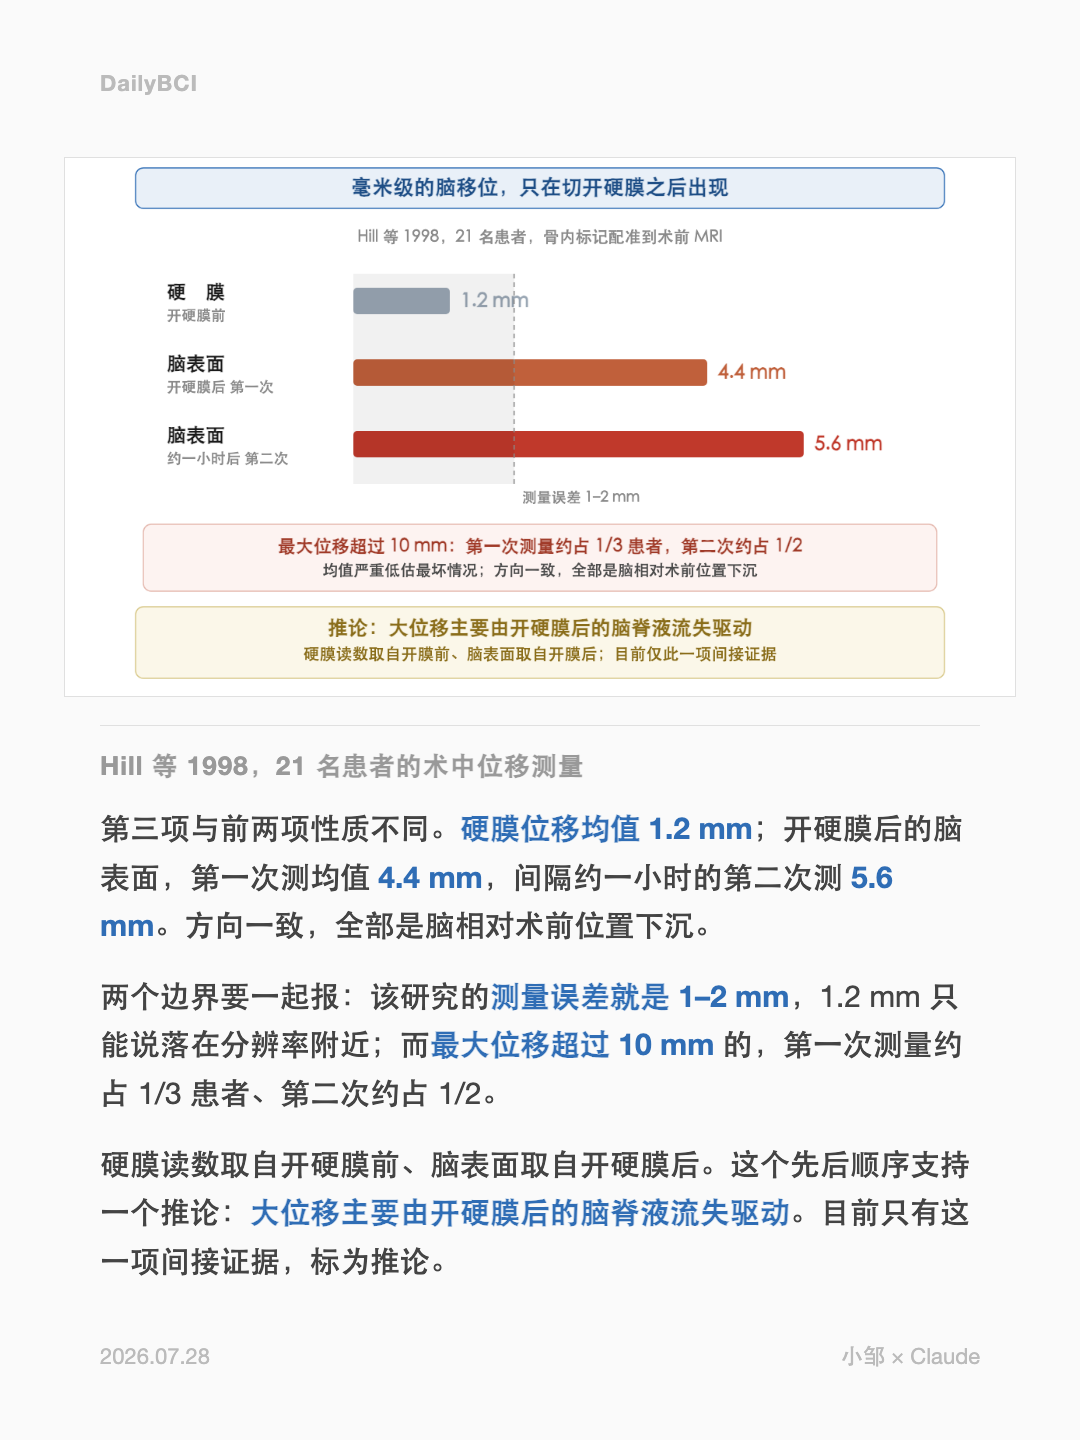
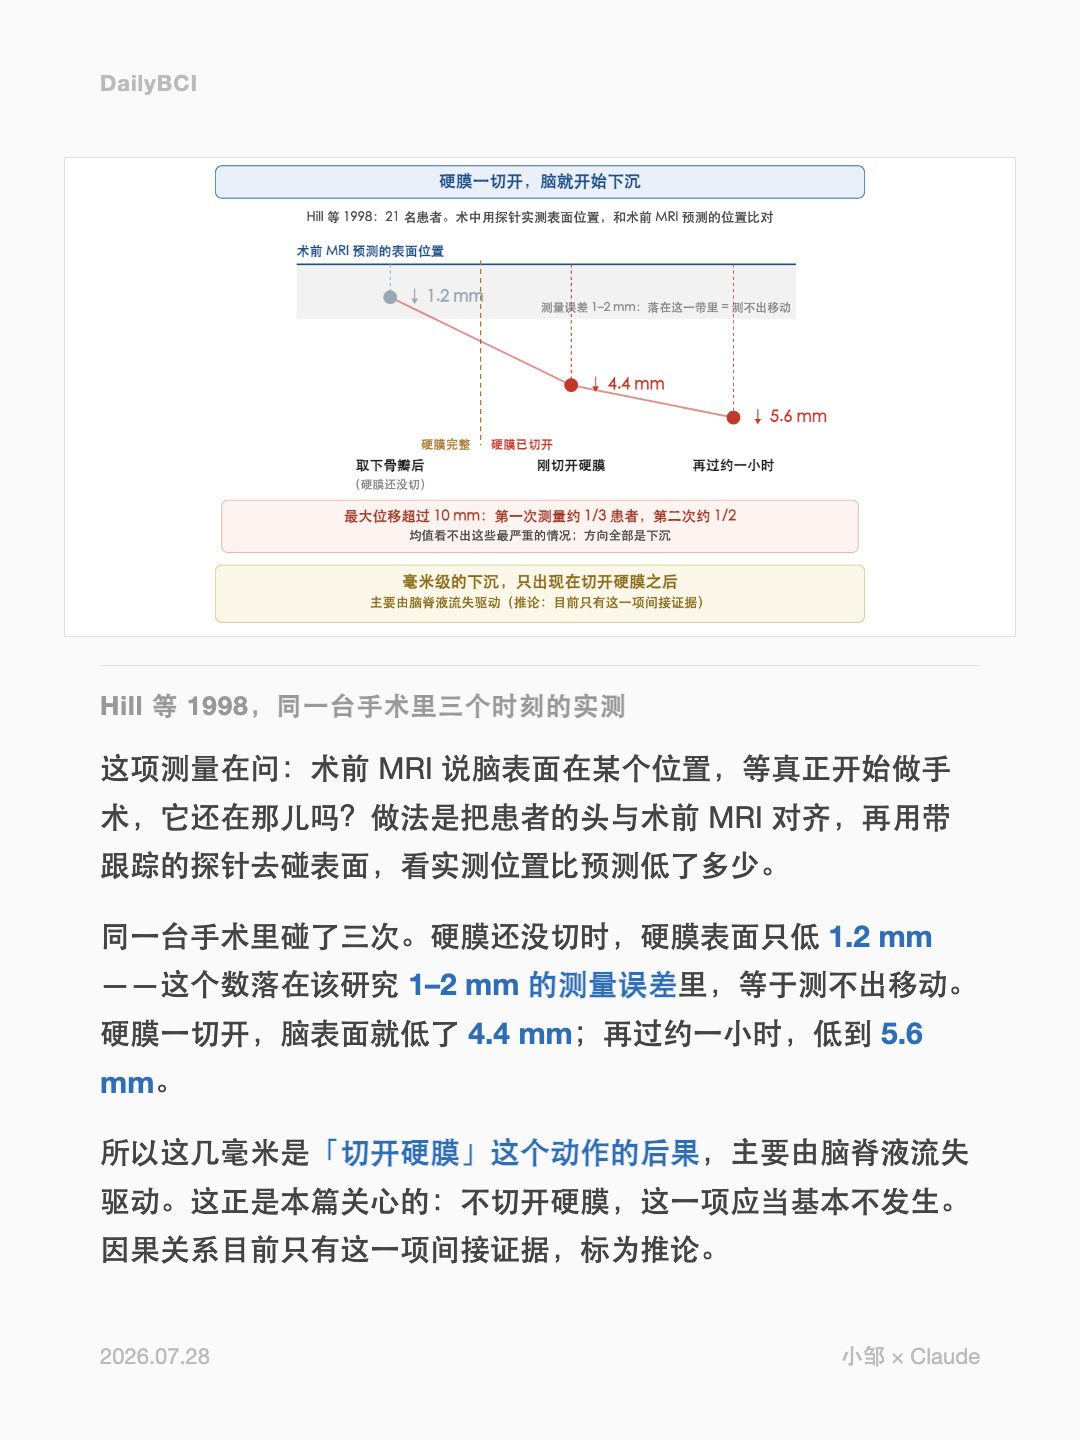
重做第8张: 脑移位改成时间轴(三个时刻相对术前MRI的下沉量), 文案改为可独立读懂

Changed region(s): [[0.0917, 0.0938, 0.9167, 0.9062], [0.1528, 0.1875, 0.2444, 0.3438], [0.8556, 0.4375, 0.8861, 0.4688]]

diff --git a/.claude/skills/dailybci/scripts/series/dura2_figs.py b/.claude/skills/dailybci/scripts/series/dura2_figs.py
@@ -222,43 +222,58 @@ def fig_motion():
 # ---------------- 08 脑移位 ----------------
 def fig_shift():
     W = 1080
-    s = [header("毫米级的脑移位，只在切开硬膜之后出现", W)]
-    s.append(T(W / 2, 110, "Hill 等 1998，21 名患者，骨内标记配准到术前 MRI", 21, GRAY))
+    s = [header("硬膜一切开，脑就开始下沉", W)]
+    s.append(T(W / 2, 104, "Hill 等 1998：21 名患者。术中用探针实测表面位置，和术前 MRI 预测的位置比对",
+               21, BODY))
 
-    SC = 620.0 / 6.0
-    X0 = 300
-    rows = [
-        ("硬　膜", "开硬膜前", 1.2, "#9AA7B4"),
-        ("脑表面", "开硬膜后 第一次", 4.4, "#C0603B"),
-        ("脑表面", "约一小时后 第二次", 5.6, RED),
-    ]
-    y = 152
-    for name, when, val, col in rows:
-        s.append(T(60, y + 30, name, 25, INK, anchor="start", weight="700"))
-        s.append(T(60, y + 58, when, 19, GRAY, anchor="start"))
-        s.append(f'<rect x="{X0}" y="{y+16}" width="{val*SC:.0f}" height="34" '
-                 f'rx="5" fill="{col}"/>')
-        s.append(T(X0 + val * SC + 14, y + 42, f"{val} mm", 25, col,
-                   anchor="start", weight="700"))
-        y += 92
-    # 误差带
-    s.append(f'<rect x="{X0}" y="150" width="{2*SC:.0f}" height="{y-158}" '
-             f'fill="#000000" opacity="0.055"/>')
-    s.append(f'<line x1="{X0+2*SC}" y1="150" x2="{X0+2*SC}" y2="{y-8}" '
-             f'stroke="{GRAY}" stroke-width="1.6" stroke-dasharray="6,5"/>')
-    s.append(T(X0 + 2 * SC + 10, y + 16, "测量误差 1–2 mm", 19, GRAY, anchor="start"))
+    Y0 = 172                      # 术前 MRI 预测位置 = 0 mm
+    PXMM = 44.0                   # 每毫米像素
+    XL, XR = 150, 950
+    XS = [300, 590, 850]
+    VALS = [1.2, 4.4, 5.6]
+    LABS = [("取下骨瓣后", "硬膜还没切"), ("刚切开硬膜", ""), ("再过约一小时", "")]
 
-    yy = y + 44
-    s.append(box(30, yy, W - 60, 86, "#FDF3F1", "#E5B9AF", 10, 1.5))
-    s.append(T(W / 2, yy + 36, "最大位移超过 10 mm：第一次测量约占 1/3 患者，第二次约占 1/2",
+    # 误差带 0–2 mm
+    s.append(f'<rect x="{XL}" y="{Y0}" width="{XR-XL}" height="{2*PXMM}" '
+             f'fill="#000000" opacity="0.05"/>')
+    s.append(T(XR - 8, Y0 + 2 * PXMM - 12, "测量误差 1–2 mm：落在这一带里 = 测不出移动",
+               19, GRAY, anchor="end"))
+
+    # 基准线
+    s.append(line(XL, Y0, XR, Y0, ACCD, 2.5))
+    s.append(T(XL, Y0 - 14, "术前 MRI 预测的表面位置", 21, ACCD, anchor="start", weight="700"))
+
+    # 硬膜完整 / 已切开 分界
+    XD = 445
+    s.append(line(XD, Y0 - 6, XD, Y0 + 6.6 * PXMM, PERE, 2, "8,6"))
+    s.append(T(XD - 16, Y0 + 6.6 * PXMM + 6, "硬膜完整", 20, PERE, anchor="end", weight="700"))
+    s.append(T(XD + 16, Y0 + 6.6 * PXMM + 6, "硬膜已切开", 20, RED, anchor="start", weight="700"))
+
+    # 折线
+    pts = " ".join(f"{XS[i]},{Y0+VALS[i]*PXMM:.0f}" for i in range(3))
+    s.append(f'<polyline points="{pts}" fill="none" stroke="{RED}" stroke-width="3" '
+             f'opacity="0.55"/>')
+
+    for i in range(3):
+        x = XS[i]; y = Y0 + VALS[i] * PXMM
+        col = "#9AA7B4" if i == 0 else RED
+        s.append(line(x, Y0, x, y, col, 1.6, "5,5"))
+        s.append(f'<circle cx="{x}" cy="{y:.0f}" r="11" fill="{col}"/>')
+        s.append(T(x + 26, y + 8, f"↓ {VALS[i]} mm", 26, col, anchor="start", weight="700"))
+        s.append(T(x, Y0 + 7.5 * PXMM, LABS[i][0], 22, INK, weight="700"))
+        if LABS[i][1]:
+            s.append(T(x, Y0 + 7.5 * PXMM + 30, "（" + LABS[i][1] + "）", 19, GRAY))
+
+    y = Y0 + 8.6 * PXMM
+    s.append(box(30, y, W - 60, 84, "#FDF3F1", "#E5B9AF", 10, 1.5))
+    s.append(T(W / 2, y + 34, "最大位移超过 10 mm：第一次测量约 1/3 患者，第二次约 1/2",
                23, "#A03A28", weight="700"))
-    s.append(T(W / 2, yy + 66, "均值严重低估最坏情况；方向一致，全部是脑相对术前位置下沉",
-               20, BODY))
+    s.append(T(W / 2, y + 64, "均值看不出这些最严重的情况；方向全部是下沉", 20, BODY))
 
-    yz = yy + 106
-    s.append(concl(yz, "推论：大位移主要由开硬膜后的脑脊液流失驱动",
-                   "硬膜读数取自开膜前、脑表面取自开膜后；目前仅此一项间接证据", W))
-    return W, yz + 116, "".join(s)
+    yz = y + 104
+    s.append(concl(yz, "毫米级的下沉，只出现在切开硬膜之后",
+                   "主要由脑脊液流失驱动（推论：目前只有这一项间接证据）", W))
+    return W, int(yz + 116), "".join(s)
 
 
 # ---------------- 11 钨铼 ----------------

diff --git a/.claude/skills/dailybci/scripts/series/build_dura2_cards.py b/.claude/skills/dailybci/scripts/series/build_dura2_cards.py
@@ -97,16 +97,16 @@ gen.figure_card(
 
 # 08 脑移位
 gen.figure_card(
-    F("fig-shift.png"), "Hill 等 1998，21 名患者的术中位移测量",
+    F("fig-shift.png"), "Hill 等 1998，同一台手术里三个时刻的实测",
     [
-        "第三项与前两项性质不同。**硬膜位移均值 1.2 mm**；开硬膜后的脑表面，第一次测均值 **4.4 mm**，"
-        "间隔约一小时的第二次测 **5.6 mm**。方向一致，全部是脑相对术前位置下沉。",
-        "两个边界要一起报：该研究的**测量误差就是 1–2 mm**，1.2 mm 只能说落在分辨率附近；"
-        "而**最大位移超过 10 mm** 的，第一次测量约占 1/3 患者、第二次约占 1/2。",
-        "硬膜读数取自开硬膜前、脑表面取自开硬膜后。这个先后顺序支持一个推论："
-        "**大位移主要由开硬膜后的脑脊液流失驱动**。目前只有这一项间接证据，标为推论。",
+        "这项测量在问：术前 MRI 说脑表面在某个位置，等真正开始做手术，它还在那儿吗？"
+        "做法是把患者的头与术前 MRI 对齐，再用带跟踪的探针去碰表面，看实测位置比预测低了多少。",
+        "同一台手术里碰了三次。硬膜还没切时，硬膜表面只低 **1.2 mm**——这个数落在该研究 **1–2 mm 的测量误差**里，"
+        "等于测不出移动。硬膜一切开，脑表面就低了 **4.4 mm**；再过约一小时，低到 **5.6 mm**。",
+        "所以这几毫米是**「切开硬膜」这个动作的后果**，主要由脑脊液流失驱动。"
+        "这正是本篇关心的：不切开硬膜，这一项应当基本不发生。因果关系目前只有这一项间接证据，标为推论。",
     ],
-    P("08-shift.png"), figure_height=540,
+    P("08-shift.png"), figure_height=480,
 )
 
 # 09 OCT
